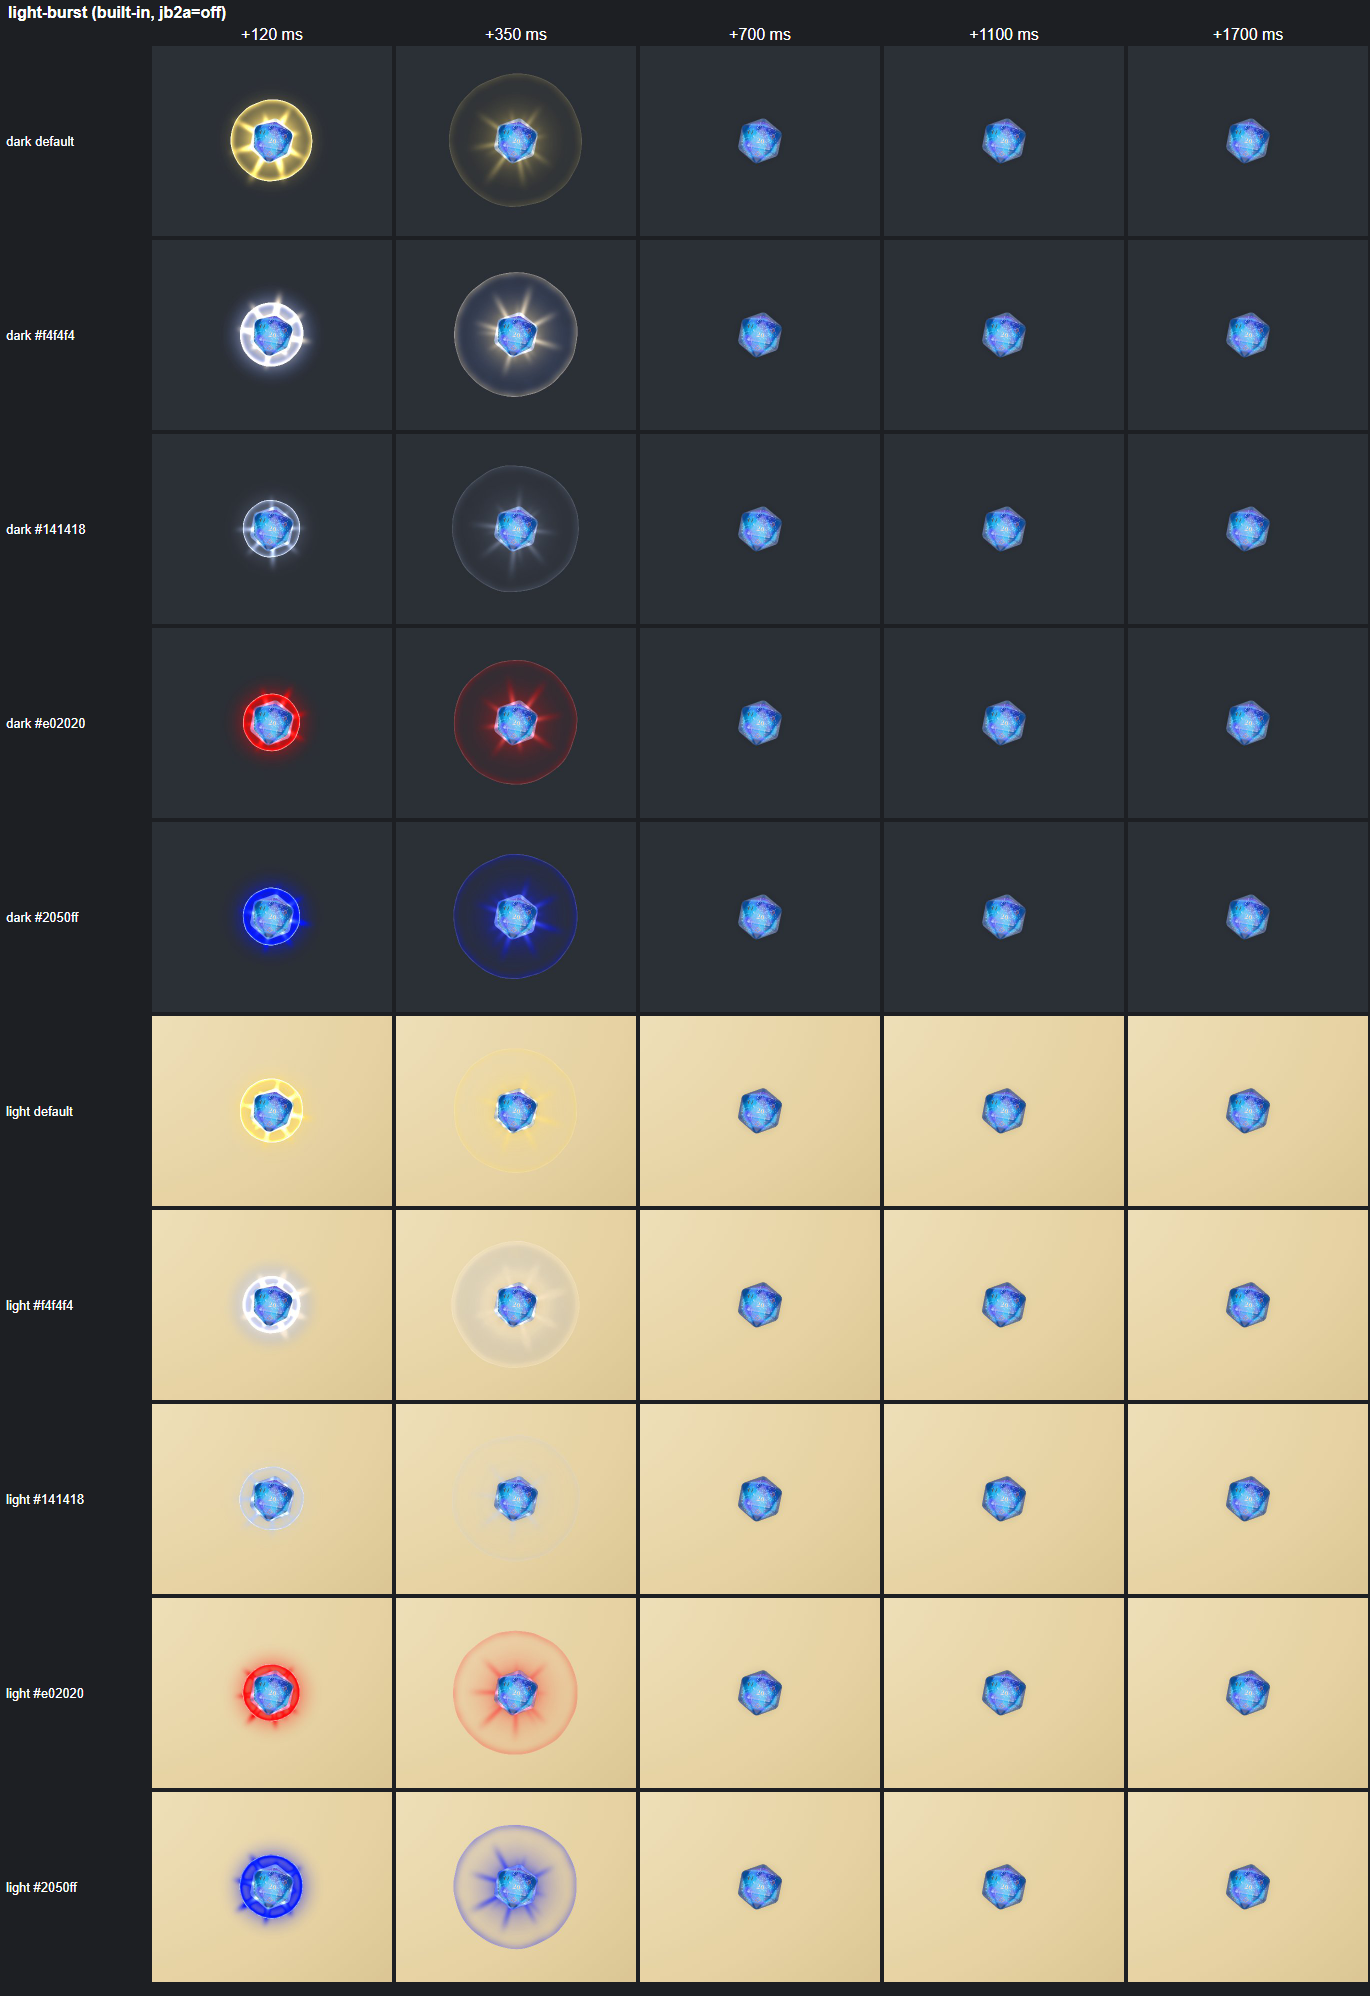
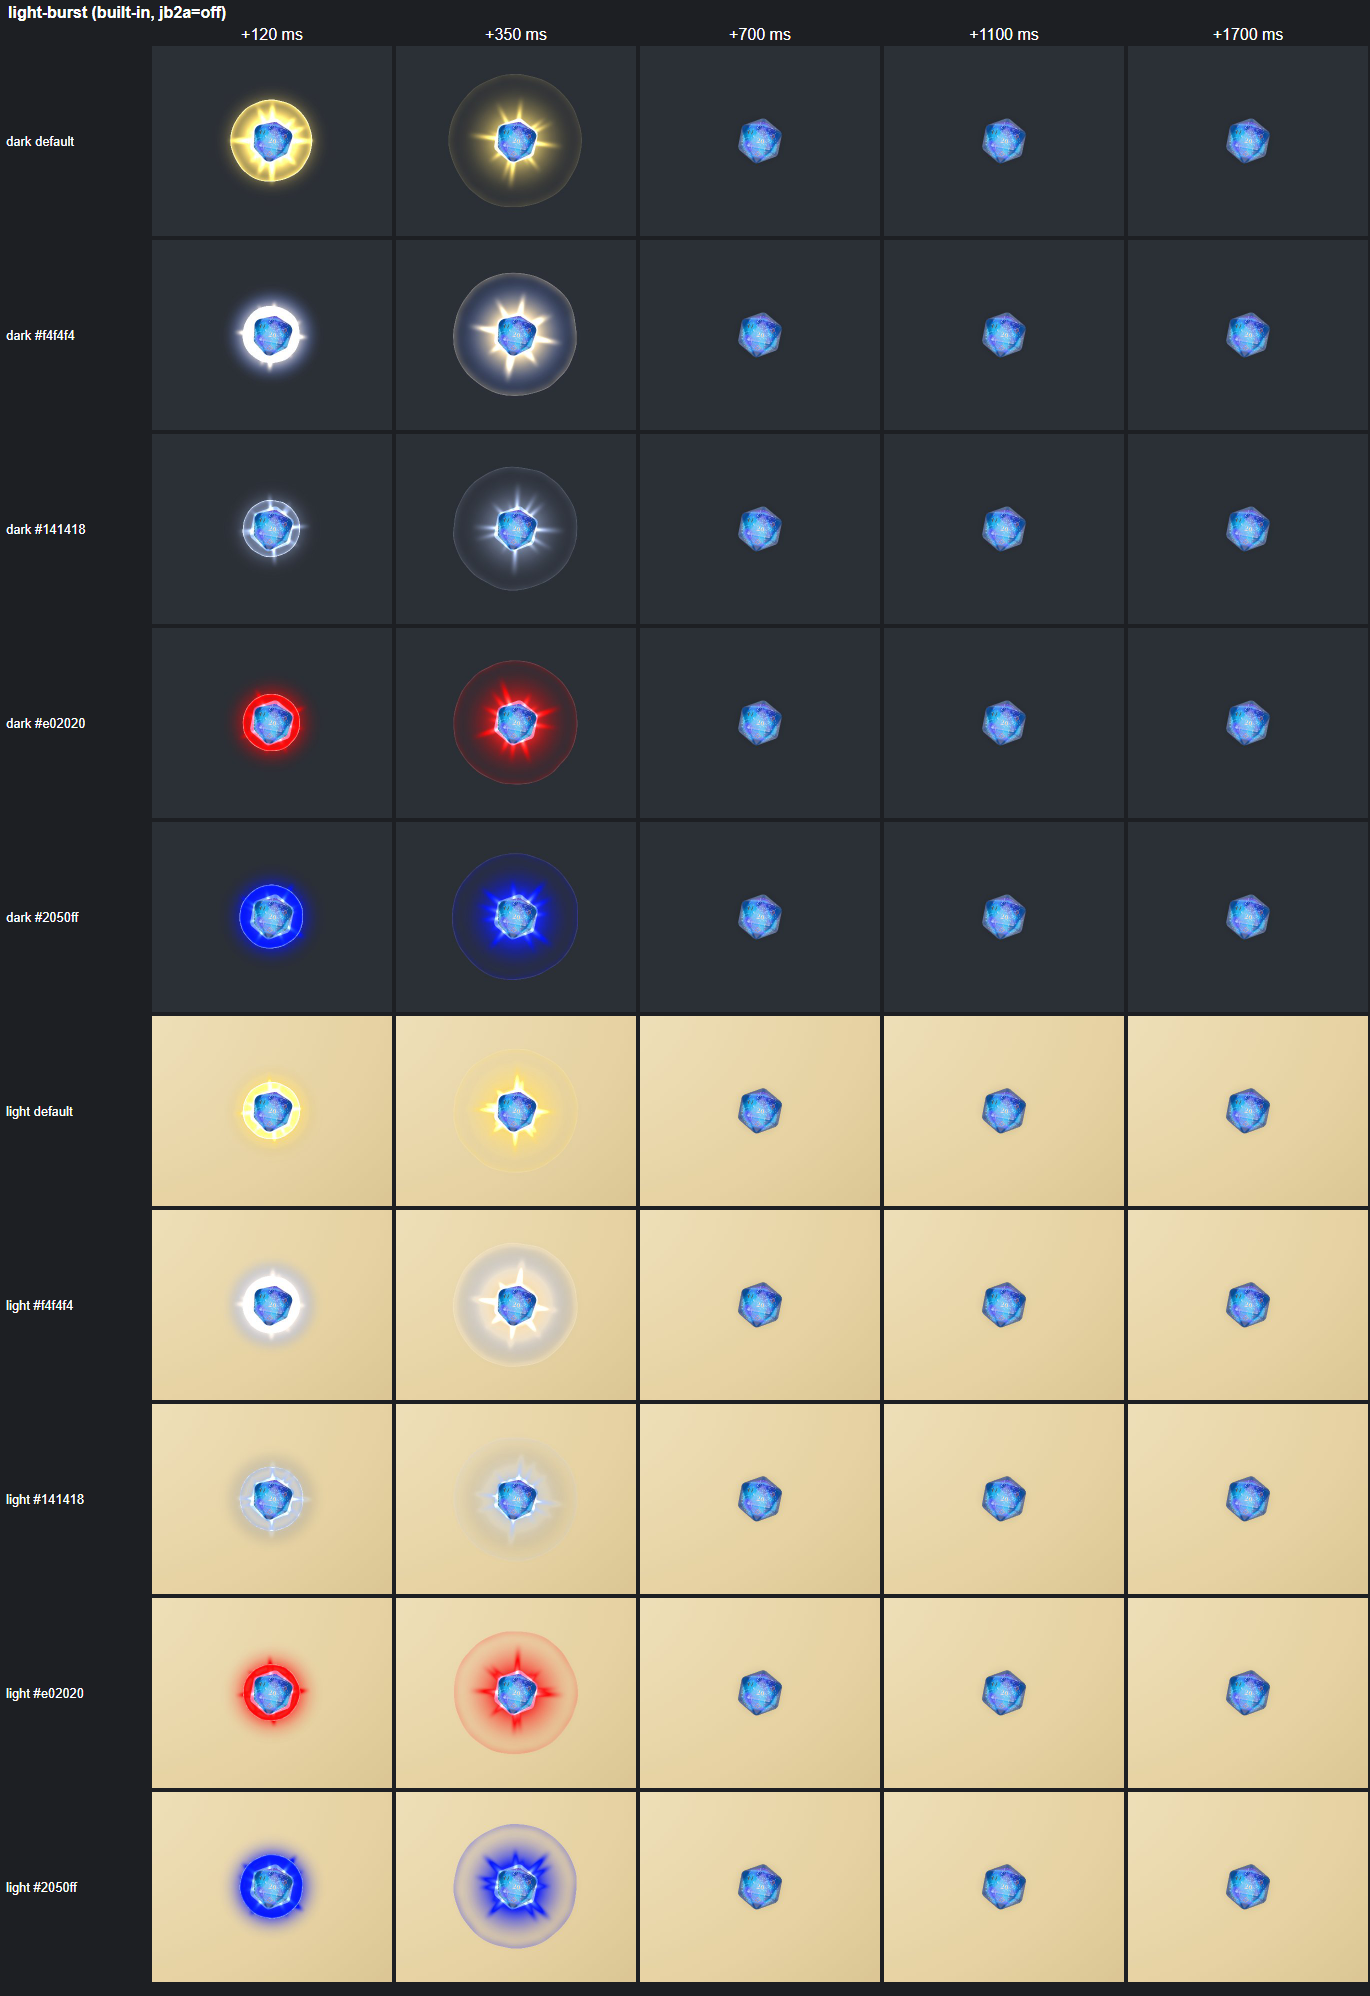
fix(fx): light-burst look pass: longer varied rays, held bloom, light-table shade
Rays reach further with clearly varied lengths (0.3..1) and a stronger
uRayAlpha; the bloom holds its flash through the first third. uShade raises
the written alpha under haze and rays so pale bursts dim a light map behind
them. rayHash is now a sin-free Hoskins hash. The floor ring is skipped on
cheap tiers (effectBudget <= 2). BURST_UNIFORMS carries black uCore/uDeep
placeholders. The size test checks the halo and the ring separately.

diff --git a/src/effects/library/catalogue.js b/src/effects/library/catalogue.js
@@ -137,7 +137,10 @@ function quadMaterial(fragment, color, extra = {}) {
  *   graded from uCore at the centre through uColor to uDeep at the rim, plus `uRays` soft
  *   god-rays turned by `uSpin` (radians), with a second set of shorter, fainter rays between
  *   them turning the other way. Each ray is a soft wedge (a gaussian off its axis that widens
- *   outward) fading out at its own length, so no two neighbours match.
+ *   outward) fading out at its own length (0.3..1 of its set's reach), so no two neighbours match.
+ *   uShade (0..1) raises the written alpha above the colour under the haze and rays: on the
+ *   (premultiplied) dice canvas that dims the table behind them, a soft dark band that lets a
+ *   pale burst read on a light map, while a dark table barely changes.
  * No noise: the corners are discarded and the rest is a few exps; the rays only cost when
  * uRayAlpha > 0.
  */
@@ -147,29 +150,35 @@ uniform vec3 uCore;
 uniform vec3 uDeep;
 uniform float uAlpha;
 uniform float uBloom;
+uniform float uShade;
 uniform float uRays;
 uniform float uSpin;
 uniform float uRayAlpha;
 varying vec2 vUv;
+// A sin-free 1D hash (Hoskins), the same family as NOISE_GLSL's hash.
 float rayHash( float n ) {
-	return fract( sin( n * 12.9898 + 1.0 ) * 43758.5453 );
+	n = fract( n * 0.1031 );
+	n *= n + 33.33;
+	n *= n + n;
+	return fract( n );
 }
-// One set of n rays at angle a (already spun): a soft wedge per ray, lengths 0.4..1 of lenMax.
+// One set of n rays at angle a (already spun): a soft wedge per ray, lengths 0.3..1 of lenMax.
 float raySet( float a, float r, float n, float lenMax, float seed ) {
 	float sector = 6.2831853 / n;
 	float idx = floor( a / sector + 0.5 );
 	float d = r * abs( sin( a - idx * sector ) );
-	float h = rayHash( mod( idx, n ) + seed );
-	float len = lenMax * ( 0.4 + 0.6 * h );
-	float w = 0.012 + 0.07 * r;
+	float h = rayHash( mod( idx, n ) * 7.31 + seed );
+	float len = lenMax * ( 0.3 + 0.7 * h );
+	float w = 0.012 + 0.05 * r;
 	float soft = exp( - ( d * d ) / ( w * w ) );
-	return soft * ( 1.0 - smoothstep( 0.25 * len, len, r ) ) * smoothstep( 0.04, 0.16, r ) * ( 0.6 + 0.4 * h );
+	return soft * ( 1.0 - smoothstep( 0.15 * len, len, r ) ) * smoothstep( 0.04, 0.16, r ) * ( 0.55 + 0.45 * h );
 }
 void main() {
 	vec2 p = vUv * 2.0 - 1.0;
 	float r = length( p );
 	if ( r >= 1.0 ) discard; // the corners: every layer is zero there
 	vec3 c;
+	float shade = 0.0;
 	if ( uBloom < 0.5 ) {
 		float glow = exp( - r * r * 5.0 ) * ( 1.0 - smoothstep( 0.6, 1.0, r ) );
 		float core = exp( - r * r * 60.0 );
@@ -177,23 +186,35 @@ void main() {
 	} else {
 		float fade = 1.0 - smoothstep( 0.55, 1.0, r );
 		float hot = exp( - r * r * 70.0 );
-		float mid = exp( - r * r * 9.0 );
-		float haze = exp( - r * r * 2.0 ) * fade;
-		vec3 grad = mix( mix( uCore, uColor, smoothstep( 0.0, 0.3, r ) ), uDeep, smoothstep( 0.25, 0.8, r ) );
-		c = grad * ( 0.9 * mid + 0.6 * haze ) + uCore * ( 0.6 * mid * mid ) + vec3( 0.9 * hot );
+		float mid = exp( - r * r * 7.0 );
+		float haze = exp( - r * r * 1.8 ) * fade;
+		vec3 grad = mix( mix( uCore, uColor, smoothstep( 0.0, 0.3, r ) ), uDeep, smoothstep( 0.3, 0.85, r ) );
+		c = grad * ( 0.9 * mid + 0.7 * haze ) + uCore * ( 0.6 * mid * mid ) + vec3( 0.9 * hot );
+		float rays = 0.0;
 		if ( uRays > 0.5 && uRayAlpha > 0.0 ) {
 			float a = atan( p.y, p.x + 0.00001 );
-			float rays = raySet( a + uSpin, r, uRays, 1.0, 0.0 )
-				+ 0.55 * raySet( a - 0.6 * uSpin + 3.14159265 / uRays, r, uRays, 0.7, 7.0 );
-			vec3 rayCol = mix( uCore, uColor, smoothstep( 0.05, 0.6, r ) );
-			c += rayCol * rays * 1.6 * uRayAlpha * fade;
+			rays = ( raySet( a + uSpin, r, uRays, 0.97, 0.0 )
+				+ 0.6 * raySet( a - 0.6 * uSpin + 3.14159265 / uRays, r, uRays, 0.75, 7.0 ) )
+				* uRayAlpha * ( 1.0 - smoothstep( 0.8, 1.0, r ) );
+			vec3 rayCol = mix( uCore, uColor, smoothstep( 0.05, 0.5, r ) );
+			c += rayCol * rays * 1.8;
 		}
+		shade = uShade * uAlpha * clamp( 0.7 * haze + 0.6 * rays, 0.0, 1.0 );
 		c *= uAlpha;
 	}
-	gl_FragColor = vec4( c, clamp( max( max( c.r, c.g ), c.b ), 0.0, 1.0 ) );
+	gl_FragColor = vec4( c, clamp( max( max( max( c.r, c.g ), c.b ), shade ), 0.0, 1.0 ) );
 }
 `;
-const BURST_UNIFORMS = Object.freeze({ uBloom: 0, uRays: 0, uSpin: 0, uRayAlpha: 0 });
+// uCore / uDeep are black placeholders: the plain (uBloom 0) look ignores them, light-burst sets its own.
+const BURST_UNIFORMS = Object.freeze({
+  uBloom: 0,
+  uShade: 0,
+  uRays: 0,
+  uSpin: 0,
+  uRayAlpha: 0,
+  uCore: Object.freeze(new THREE.Color(0, 0, 0)),
+  uDeep: Object.freeze(new THREE.Color(0, 0, 0)),
+});
 
 /** Value noise for shader quads: a sin-free hash (Hoskins), cheap and stable on mediump GPUs. */
 const NOISE_GLSL = /* glsl */ `
@@ -308,8 +329,7 @@ function ringUniforms(color, { edge = 0.018, noise = 0.6, trail = 0.5 } = {}) {
  */
 export function floorGlow(ctx, { radius, peak, ms, curve = (e) => (1 - e / ms) ** 2 }) {
   const scope = scoped(ctx.scene);
-  // uCore / uDeep are unused by the plain (uBloom 0) look, but every declared uniform needs a value.
-  const material = quadMaterial(BURST_FRAGMENT, ctx.color, { ...BURST_UNIFORMS, uCore: ctx.color.clone(), uDeep: ctx.color.clone() });
+  const material = quadMaterial(BURST_FRAGMENT, ctx.color, BURST_UNIFORMS);
   const mesh = new THREE.Mesh(new THREE.PlaneGeometry(1, 1), material);
   mesh.rotation.x = -Math.PI / 2;
   mesh.position.set(ctx.position.x, FLOOR_Y, ctx.position.z);
@@ -348,6 +368,8 @@ export const lightBurst = Object.freeze({
       uRays: 8,
       uCore: (pal.rim ?? pal.core).clone().lerp(new THREE.Color(WHITE), pal.rim ? 0.45 : 0.25),
       uDeep: pal.rim ? pal.rim.clone().multiplyScalar(0.6) : pal.edge.clone(),
+      // Pale bodies (near-white, gold, a near-black die's grey rim) need the stronger dark band.
+      uShade: 0.15 + 0.7 * body.getHSL({}, THREE.SRGBColorSpace).l,
     });
     const u = material.uniforms;
     const mesh = new THREE.Mesh(new THREE.PlaneGeometry(1, 1), material);
@@ -366,15 +388,19 @@ export const lightBurst = Object.freeze({
     u.uAlpha.value = 0.3 * level;
     const spin0 = Math.random() * Math.PI * 2;
 
-    const ringMat = quadMaterial(RING_FRAGMENT, body, ringUniforms(ctx.color, { edge: 0.009, noise: 0.35, trail: 0.3 }));
-    const ru = ringMat.uniforms;
-    const ring = new THREE.Mesh(new THREE.PlaneGeometry(1, 1), ringMat);
-    ring.rotation.x = -Math.PI / 2; // on the floor plane
-    ring.position.set(ctx.position.x, FLOOR_Y, ctx.position.z);
-    ring.scale.setScalar(6 * grow);
-    ring.renderOrder = 1;
-    scope.add(ring);
-    const ringLevel = Math.min(ALPHA_CAP, 1.1 * Math.max(0, ctx.intensity));
+    // The thin floor ring is skipped on cheap tiers (effectBudget <= 2): 4 noise calls a pixel.
+    let ru = null;
+    if ((ctx.tier?.effectBudget ?? Infinity) > 2) {
+      const ringMat = quadMaterial(RING_FRAGMENT, body, ringUniforms(ctx.color, { edge: 0.009, noise: 0.35, trail: 0.3 }));
+      ru = ringMat.uniforms;
+      const ring = new THREE.Mesh(new THREE.PlaneGeometry(1, 1), ringMat);
+      ring.rotation.x = -Math.PI / 2; // on the floor plane
+      ring.position.set(ctx.position.x, FLOOR_Y, ctx.position.z);
+      ring.scale.setScalar(6 * grow);
+      ring.renderOrder = 1;
+      scope.add(ring);
+    }
+    const ringLevel = Math.min(ALPHA_CAP, 0.9 * Math.max(0, ctx.intensity));
 
     const halo = timed(
       D,
@@ -388,13 +414,17 @@ export const lightBurst = Object.freeze({
         }
         const k = (e - PRE) / Math.max(1, D - PRE);
         mesh.scale.setScalar(gathered + (reach - gathered) * (1 - Math.exp(-8 * k))); // a fast bloom
-        u.uAlpha.value = 1.2 * level * (1 - k) ** 1.6; // the flash, easing out
+        // The flash holds through the first third or so, then eases out.
+        const hold = clamp01((k - 0.25) / 0.75);
+        u.uAlpha.value = 1.2 * level * (1 - hold * hold * (3 - 2 * hold));
         // The rays (scaled by uAlpha too) come in over the first 80 ms and thin out at the end.
-        u.uRayAlpha.value = 1.3 * clamp01((e - PRE) / 80) * (1 - k * k * k);
+        u.uRayAlpha.value = 2.0 * clamp01((e - PRE) / 80) * (1 - k * k * k);
         u.uSpin.value = spin0 + 0.5 * (e / 1000); // a slow turn: ~20 degrees in 700 ms
-        const rk = clamp01((e - PRE) / Math.max(1, 0.8 * (D - PRE)));
-        ru.uR.value = 0.06 + 0.9 * easeOut(rk);
-        ru.uAlpha.value = ringLevel * clamp01((e - PRE) / 40) * (1 - rk) ** 1.5;
+        if (ru) {
+          const rk = clamp01((e - PRE) / Math.max(1, 0.8 * (D - PRE)));
+          ru.uR.value = 0.06 + 0.9 * easeOut(rk);
+          ru.uAlpha.value = ringLevel * clamp01((e - PRE) / 40) * (1 - rk) ** 1.5;
+        }
       },
       () => scope.dispose(),
     );

diff --git a/tests/unit/catalogue.test.js b/tests/unit/catalogue.test.js
@@ -254,22 +254,54 @@ describe('rebuilt looks', () => {
   });
 
   test('light-burst size at intensity 2 ≤ 1.6 × size at intensity 1', () => {
-    // The largest scale any of its meshes (halo, floor ring) reaches over its life.
-    const sizeAt = (intensity) => {
+    // The largest scale each of its meshes (the halo, the floor ring) reaches over its life,
+    // checked per mesh so one overgrowing is not masked by a bigger neighbour.
+    const sizesAt = (intensity) => {
       const ctx = ctxFor(EFFECTS['light-burst'], { intensity });
       const h = EFFECTS['light-burst'].start(ctx);
-      let max = 0;
+      const halo = ctx.scene.children.find((c) => c.material?.uniforms?.uRays);
+      const ring = ctx.scene.children.find((c) => c.material?.uniforms?.uR);
+      const max = { halo: 0, ring: 0 };
       for (let t = 0; t < ctx.duration; t += 20) {
         h.update(t);
-        for (const c of ctx.scene.children) if (c.isMesh) max = Math.max(max, c.scale.x);
+        max.halo = Math.max(max.halo, halo.scale.x);
+        max.ring = Math.max(max.ring, ring.scale.x);
       }
       h.stop();
       return max;
     };
-    const one = sizeAt(1);
-    expect(sizeAt(2)).toBeGreaterThan(one);
-    expect(sizeAt(2)).toBeLessThanOrEqual(1.6 * one);
-    expect(sizeAt(4)).toBeLessThanOrEqual(1.6 * one);
+    const one = sizesAt(1);
+    for (const part of ['halo', 'ring']) {
+      expect(sizesAt(2)[part], part).toBeGreaterThan(one[part]);
+      expect(sizesAt(2)[part], part).toBeLessThanOrEqual(1.6 * one[part]);
+      expect(sizesAt(4)[part], part).toBeLessThanOrEqual(1.6 * one[part]);
+    }
+  });
+
+  test('light-burst skips its floor ring on cheap tiers (effectBudget ≤ 2)', () => {
+    const hasRing = (tier) => {
+      const ctx = ctxFor(EFFECTS['light-burst'], { tier });
+      const h = EFFECTS['light-burst'].start(ctx);
+      const found = ctx.scene.children.some((c) => c.material?.uniforms?.uR);
+      h.stop();
+      return found;
+    };
+    expect(hasRing('low')).toBe(false);
+    expect(hasRing('medium')).toBe(true);
+    expect(hasRing('ultra')).toBe(true);
+  });
+
+  test('light-burst shades pale colours more (a dark band so it reads on a light table)', () => {
+    const shadeOf = (hex) => {
+      const ctx = ctxFor(EFFECTS['light-burst'], { color: new THREE.Color(hex) });
+      const h = EFFECTS['light-burst'].start(ctx);
+      const halo = ctx.scene.children.find((c) => c.material?.uniforms?.uRays);
+      const s = halo.material.uniforms.uShade.value;
+      h.stop();
+      return s;
+    };
+    for (const hex of ['#f4f4f4', '#141418', '#e02020', '#2050ff']) expect(shadeOf(hex), hex).toBeGreaterThan(0);
+    expect(shadeOf('#f4f4f4')).toBeGreaterThan(shadeOf('#e02020'));
   });
 
   test('light-burst anticipates: halo scale at 40 ms < scale at 0 ms', () => {
@@ -824,7 +856,7 @@ describe('composites degrade with the tier budget (P4-R10)', () => {
     const h = EFFECTS.celebrate.start(ctx);
     h.update(0);
     h.update(300);
-    expect(scene.children.length - base).toBe(4); // light-burst (halo + floor ring + its floor glow) + the free floor glow
+    expect(scene.children.length - base).toBe(3); // light-burst (halo + its floor glow; no floor ring on low) + the free floor glow
     expect(emit).not.toHaveBeenCalled(); // no sparks, no glitter
     h.stop();
     expect(scene.children.length).toBe(base);
